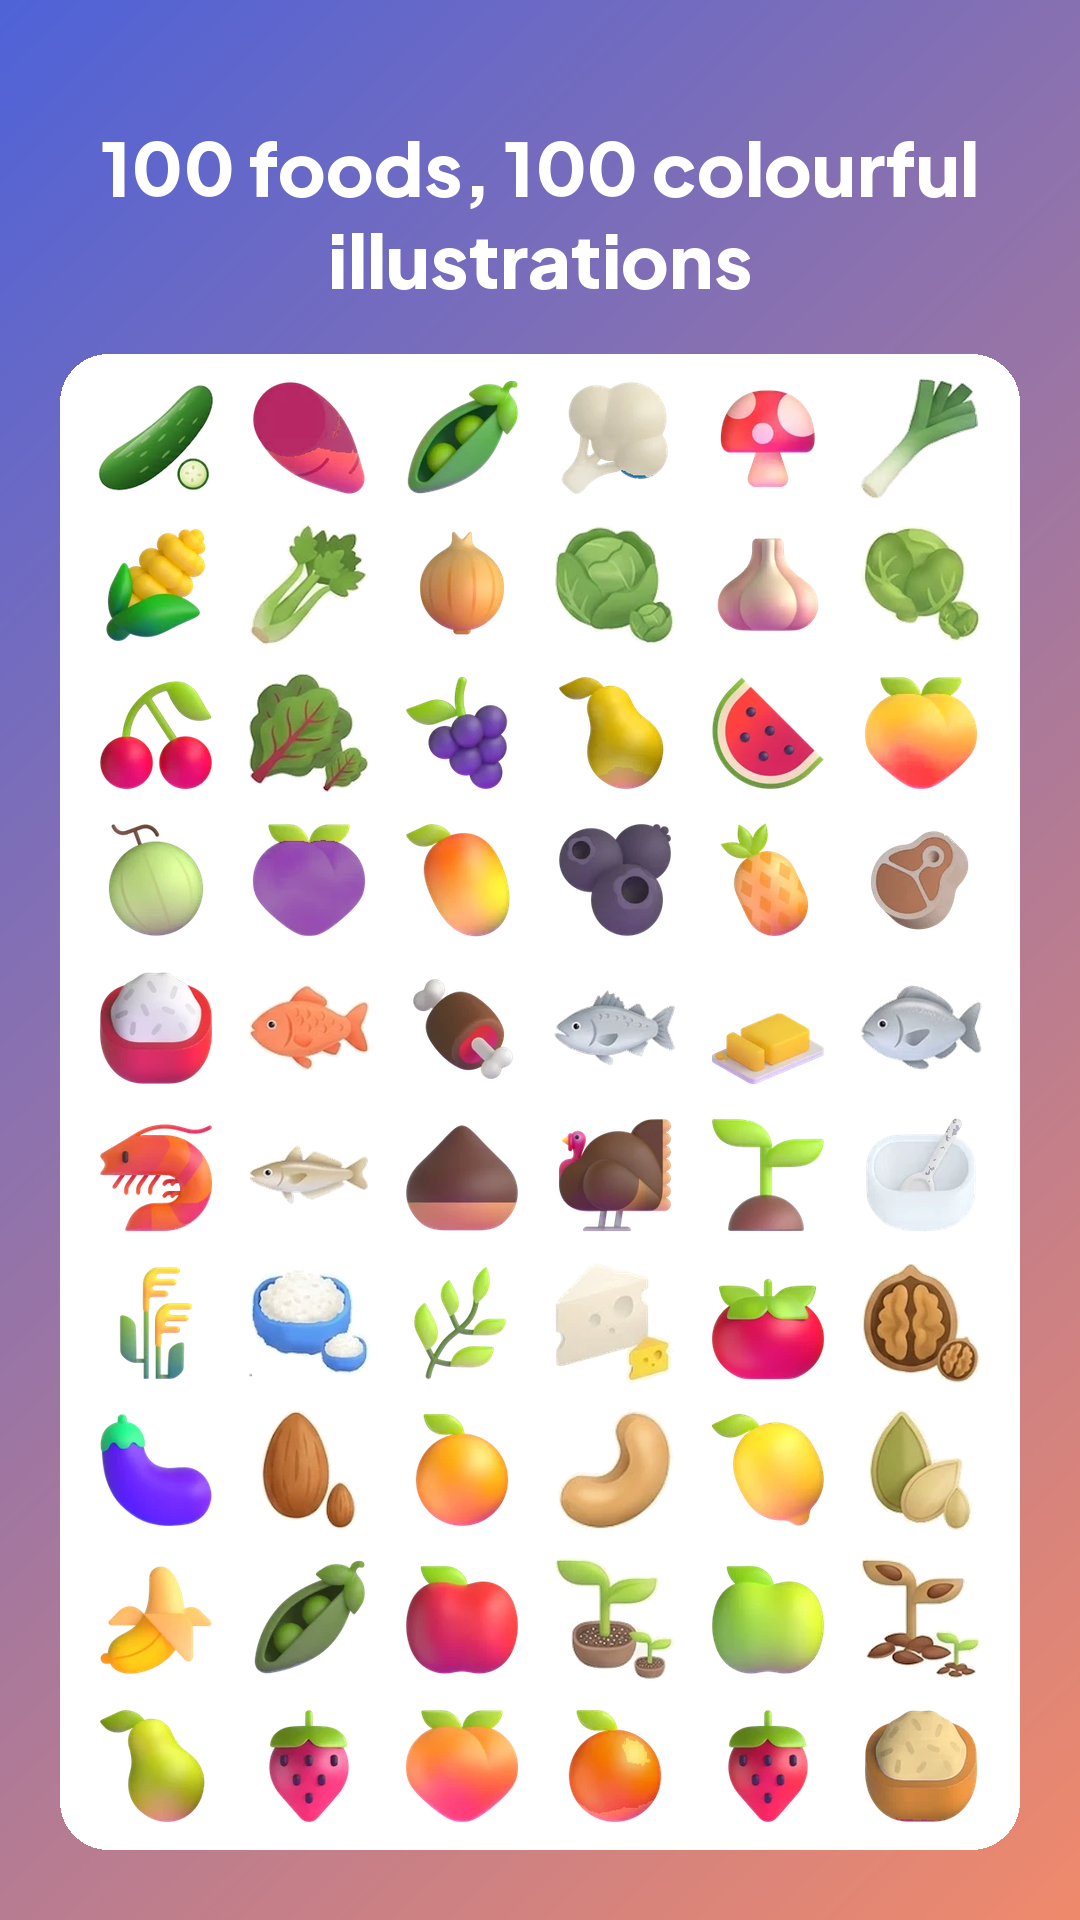
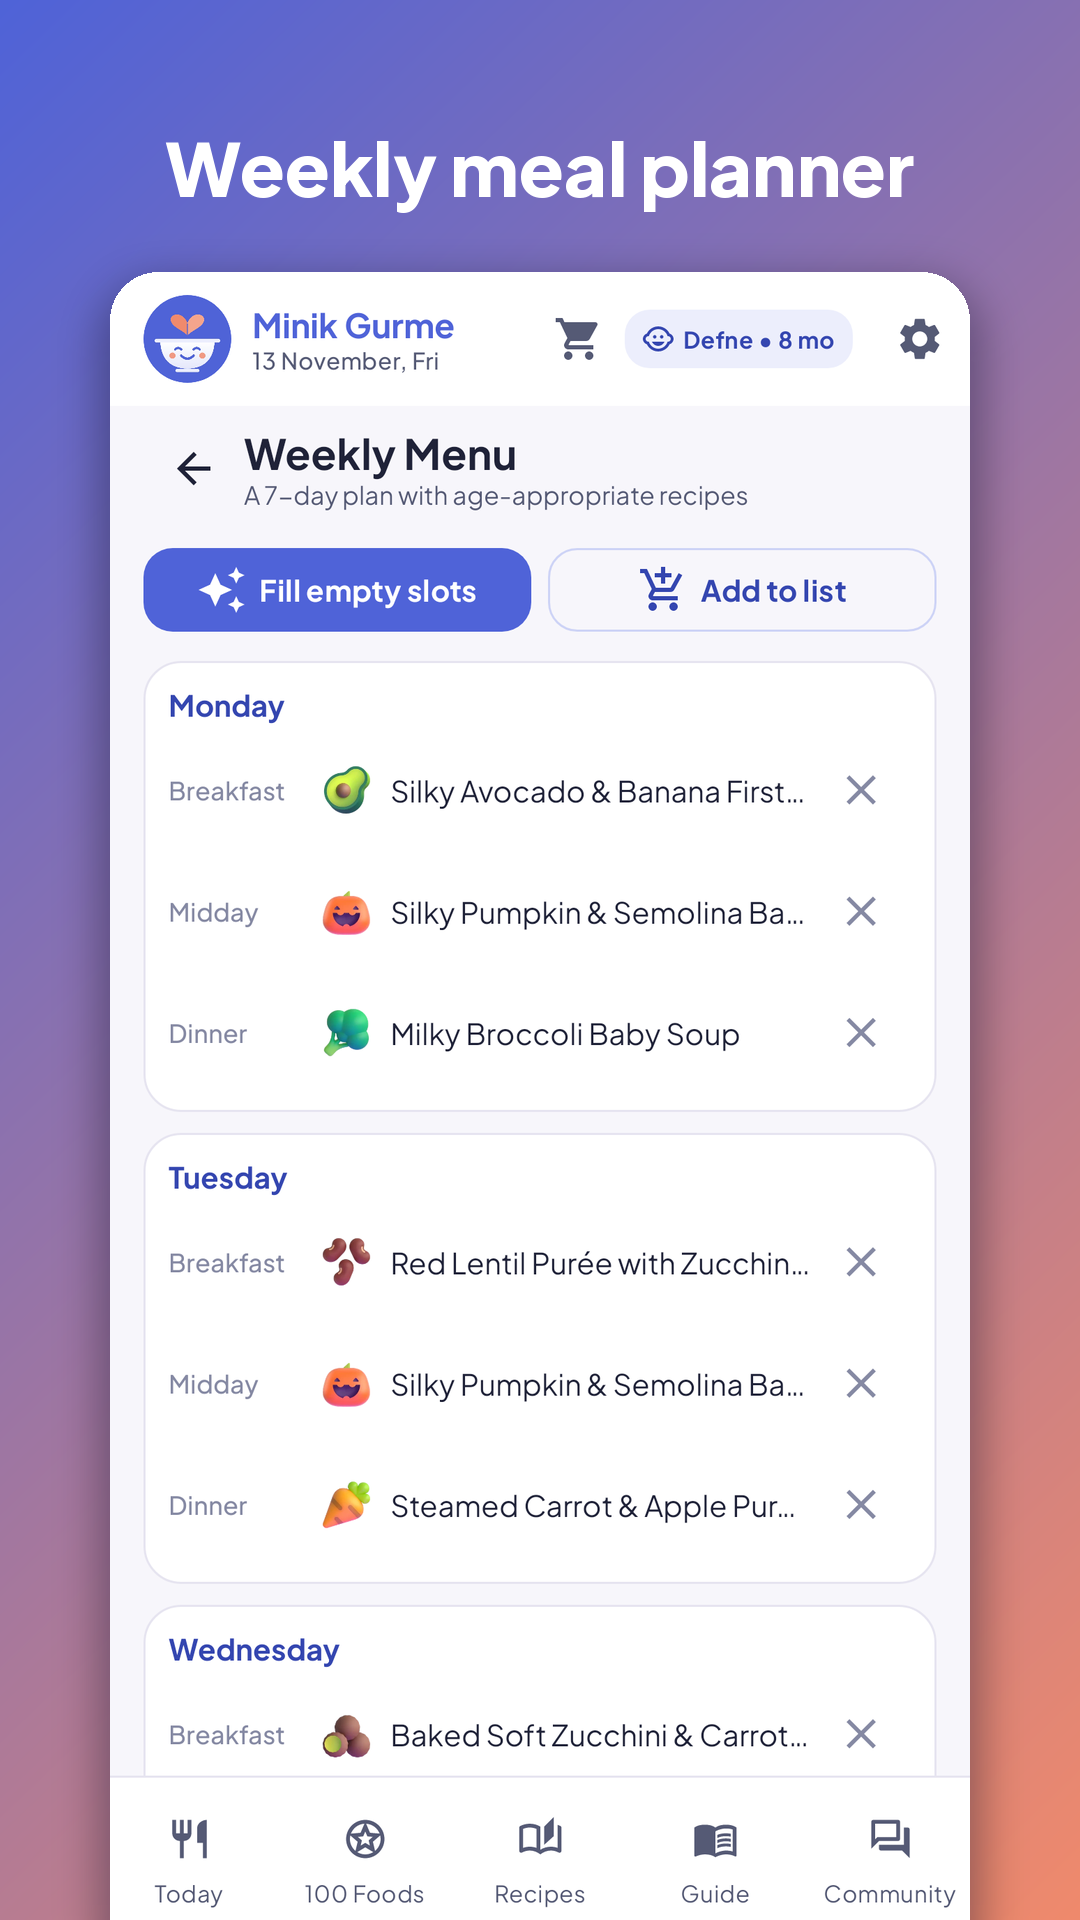
Mağaza 7. görsel: besin panosu yerine Haftalık menü planlayıcı ekranı (TR/EN); İngilizce 'Add to list' (düğme kesiliyordu)
Claude-Session: https://claude.ai/code/session_01Q1LBDi3XRbM94bBTngmwXh

diff --git a/minik_gurme/app/src/test/java/akinai/minikgurme/StoreScreenshotsTest.kt b/minik_gurme/app/src/test/java/akinai/minikgurme/StoreScreenshotsTest.kt
@@ -7,6 +7,7 @@ import androidx.compose.ui.test.junit4.createEmptyComposeRule
 import androidx.compose.ui.test.onAllNodesWithText
 import androidx.compose.ui.test.onNodeWithTag
 import androidx.compose.ui.test.performClick
+import androidx.compose.ui.test.performScrollTo
 import androidx.test.core.app.ActivityScenario
 import androidx.test.core.app.ApplicationProvider
 import akinai.minikgurme.community.Community
@@ -114,6 +115,11 @@ class StoreScreenshotsTest {
             compose.onAllNodesWithText(if (lang == "en") "Weight" else "Kilo")[0].performClick()
             compose.waitUntil(8000) { compose.onAllNodes(androidx.compose.ui.test.hasTestTag("metric_weight")).fetchSemanticsNodes().isNotEmpty() }
             shot("${lang}_5_growth")
+            // 7: Haftalık menü planlayıcı (Plus) — Boşları doldur ile dolu hafta
+            compose.onNodeWithTag("top_settings").performClick(); compose.waitForIdle()
+            compose.onNodeWithTag("settings_planner").performScrollTo().performClick(); compose.waitForIdle()
+            compose.onNodeWithTag("planner_autofill").performClick(); compose.waitForIdle()
+            shot("${lang}_7_planner")
         }
     }
 

diff --git a/minik_gurme/tool/store_graphics.py b/minik_gurme/tool/store_graphics.py
@@ -16,11 +16,13 @@ INDIGO, CORAL = (0x4F, 0x63, 0xD8), (0xF0, 0x8A, 0x6C)
 
 CAPTIONS = {
     "tr": ["Öğünleri tek dokunuşla kaydedin", "1 yaşına kadar 100 gıda", "Yaşa uygun tarifler ve günün menüsü",
-           "Ay ay rehber ve alerjen planı", "WHO eğrileriyle büyüme takibi", "Ebeveyn Topluluğu"],
+           "Ay ay rehber ve alerjen planı", "WHO eğrileriyle büyüme takibi", "Ebeveyn Topluluğu",
+           "Haftalık menü planlayıcı"],
     "en": ["Log meals in one tap", "100 foods before age 1", "Age-appropriate recipes & daily menu",
-           "Month-by-month guide & allergen plan", "Growth tracking with WHO curves", "Parent Community"],
+           "Month-by-month guide & allergen plan", "Growth tracking with WHO curves", "Parent Community",
+           "Weekly meal planner"],
 }
-NAMES = ["1_today", "2_foods100", "3_recipes", "4_guide", "5_growth", "6_community"]
+NAMES = ["1_today", "2_foods100", "3_recipes", "4_guide", "5_growth", "6_community", "7_planner"]
 
 def font(weight, size):
     return ImageFont.truetype(os.path.join(FONT, f"plus_jakarta_sans_{weight}.ttf"), size)
@@ -110,36 +112,6 @@ def feature(lang):
     with_shadow(bg, p, (690, 34))
     return bg.convert("RGB")
 
-def foods_showcase(lang):
-    """7. ekran görüntüsü: uygulamadaki 100 besin çiziminden pano."""
-    import re
-    W, H = 1080, 1920
-    bg = gradient(W, H)
-    d = ImageDraw.Draw(bg)
-    cap = "100 besin, 100 renkli çizim" if lang == "tr" else "100 foods, 100 colourful illustrations"
-    f = font("extrabold", 74); yy = 120
-    for line in wrap(d, cap, f, W - 140):
-        d.text(((W - d.textlength(line, font=f)) / 2, yy), line, font=f, fill="white"); yy += 92
-    src = open(os.path.join(ROOT, "shared/src/commonMain/kotlin/akinai/minikgurme/ui/components/FoodImage.kt"), encoding="utf-8").read()
-    names = list(dict.fromkeys(re.findall(r"Res\.drawable\.((?:emoji|food)_\w+)", src)))
-    skip = {"emoji_1f32d", "emoji_2600", "emoji_26a0", "emoji_1f308", "emoji_1f319", "emoji_1f324", "emoji_1f3af", "emoji_1f4da", "emoji_1f50d", "emoji_1fa7a", "emoji_1f4cf", "emoji_1f9ea", "emoji_1f37d"}
-    names = [n for n in names if n not in skip and os.path.exists(os.path.join(DRAW, n + ".webp"))]
-    # Düz çizimleri (emoji) ve renklendirilmiş besinleri (food_) karıştır
-    em = [n for n in names if n.startswith("emoji_")]; fd = [n for n in names if n.startswith("food_")]
-    names = [x for pair in zip(em, fd) for x in pair] + em[len(fd):] + fd[len(em):]
-    card = Image.new("RGBA", (W - 120, H - yy - 120), (255, 255, 255, 235))
-    m = Image.new("L", card.size, 0); ImageDraw.Draw(m).rounded_rectangle((0, 0, card.width - 1, card.height - 1), 48, fill=255)
-    out = bg.convert("RGBA"); out.paste(card, (60, yy + 50), m)
-    cols, icon = 6, 128
-    cell = (W - 120 - 40) // cols
-    rows = (card.height - 40) // (icon + 14)
-    gap_y = (card.height - 40 - rows * icon) / max(1, rows - 1)
-    for i, n in enumerate(names[: cols * rows]):
-        r, c = divmod(i, cols)
-        x = 60 + 20 + c * cell + (cell - icon) // 2; y = int(yy + 50 + 20 + r * (icon + gap_y))
-        out.alpha_composite(food(n, icon), (x, y))
-    return out.convert("RGB")
-
 def main():
     os.makedirs(OUT, exist_ok=True)
     Image.open(ICON).convert("RGB").resize((512, 512), Image.LANCZOS).save(os.path.join(OUT, "icon-512.png"))
@@ -148,7 +120,6 @@ def main():
         feature(lang).save(os.path.join(d, "feature-1024x500.png"))
         for i, (n, cap) in enumerate(zip(NAMES, CAPTIONS[lang])):
             framed(os.path.join(SHOTS, f"{lang}_{n}.png"), cap).save(os.path.join(d, f"phone-{i+1}.png"), optimize=True)
-        foods_showcase(lang).save(os.path.join(d, "phone-7.png"), optimize=True)
     print("Mağaza görselleri:", OUT)
 
 if __name__ == "__main__":

diff --git a/minik_gurme/docs/store/MAGAZA-METINLERI.md b/minik_gurme/docs/store/MAGAZA-METINLERI.md
@@ -53,8 +53,8 @@ The app provides general information and does not replace medical advice. Please
 ## Görseller (docs/store)
 - Simge: `icon-512.png`
 - Öne çıkan görsel: `tr/feature-1024x500.png`, `en/feature-1024x500.png`
-- Telefon ekran görüntüleri (1080×1920): `tr/phone-1..7.png`, `en/phone-1..7.png` (7: uygulamadaki besin çizimlerinden pano)
-- Öne çıkan görsel uygulama ekranı ve besin çizimleri içerir
+- Telefon ekran görüntüleri (1080×1920): `tr/phone-1..7.png`, `en/phone-1..7.png` (7: Haftalık menü planlayıcı)
+- Öne çıkan görsel uygulama ekranı ve besin çizimleri içerir; 7. ekran görüntüsü Plus özelliğini (haftalık menü) gösterir
 - Yeniden üretmek: `./gradlew :app:testDebugUnitTest --tests '*StoreScreenshotsTest'` → `python3 tool/store_graphics.py`
 
 ## Tanıtım görselleri (docs/store/promo/tr, docs/store/promo/en)
